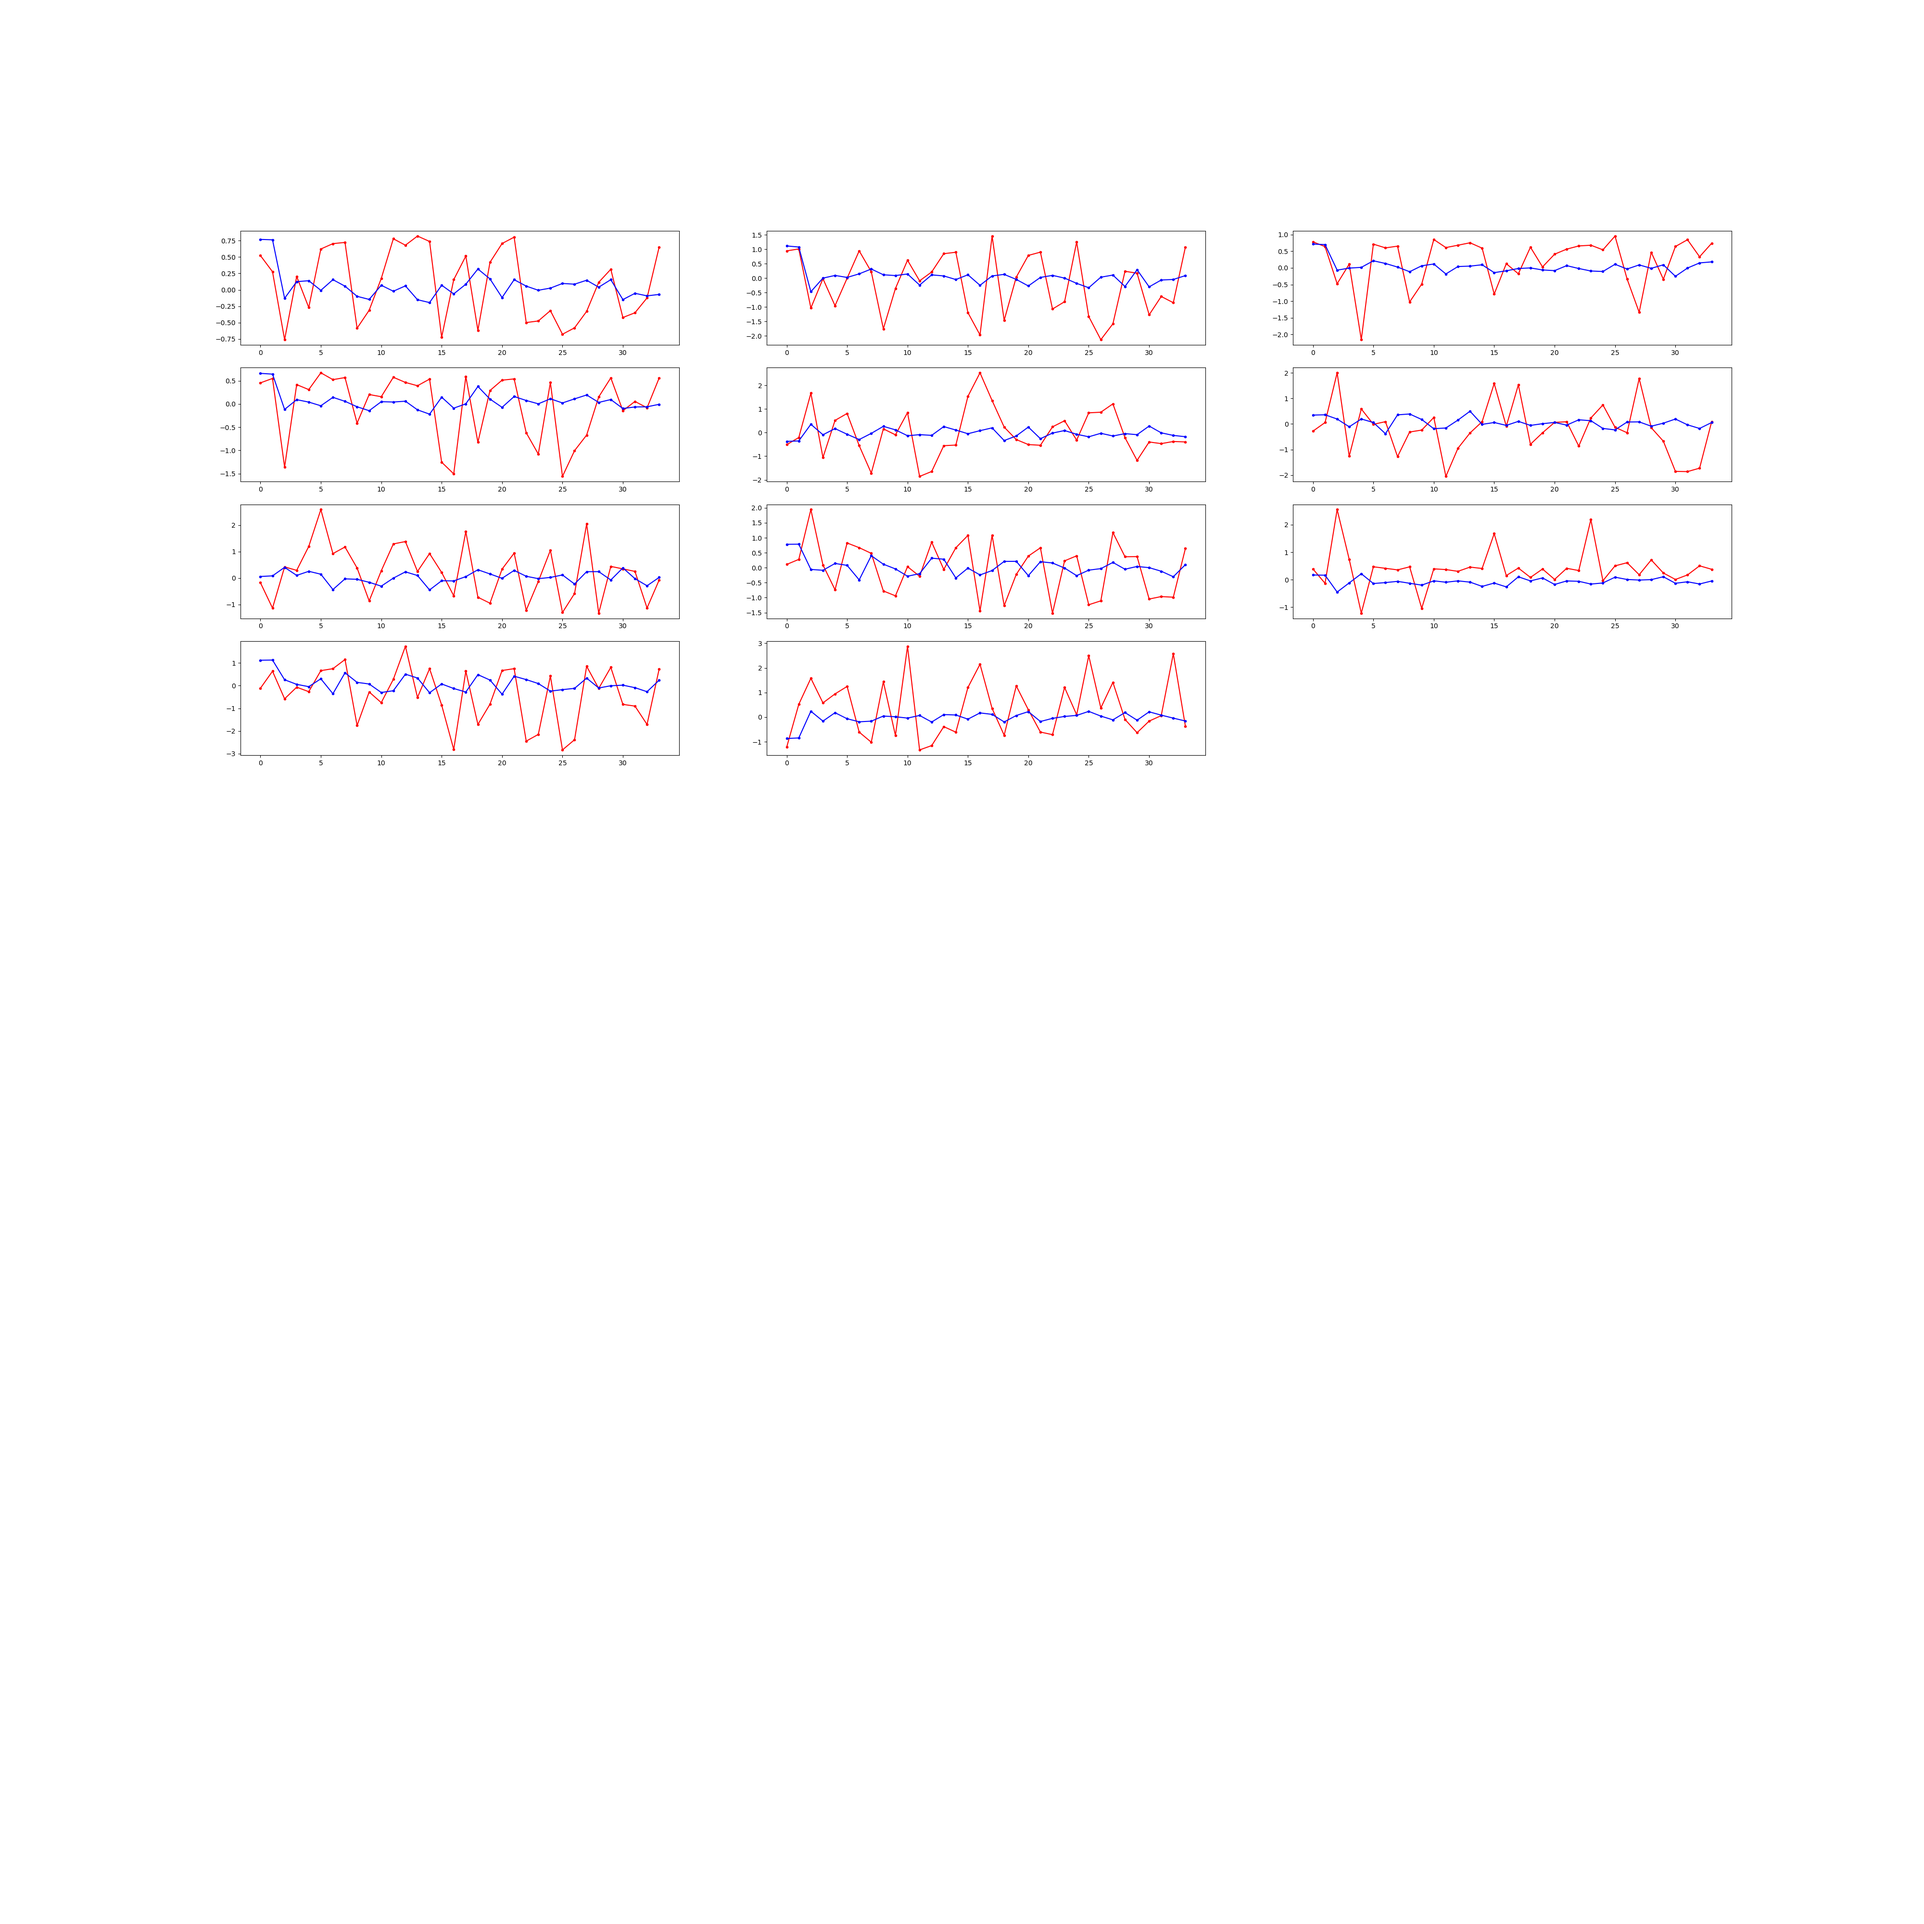
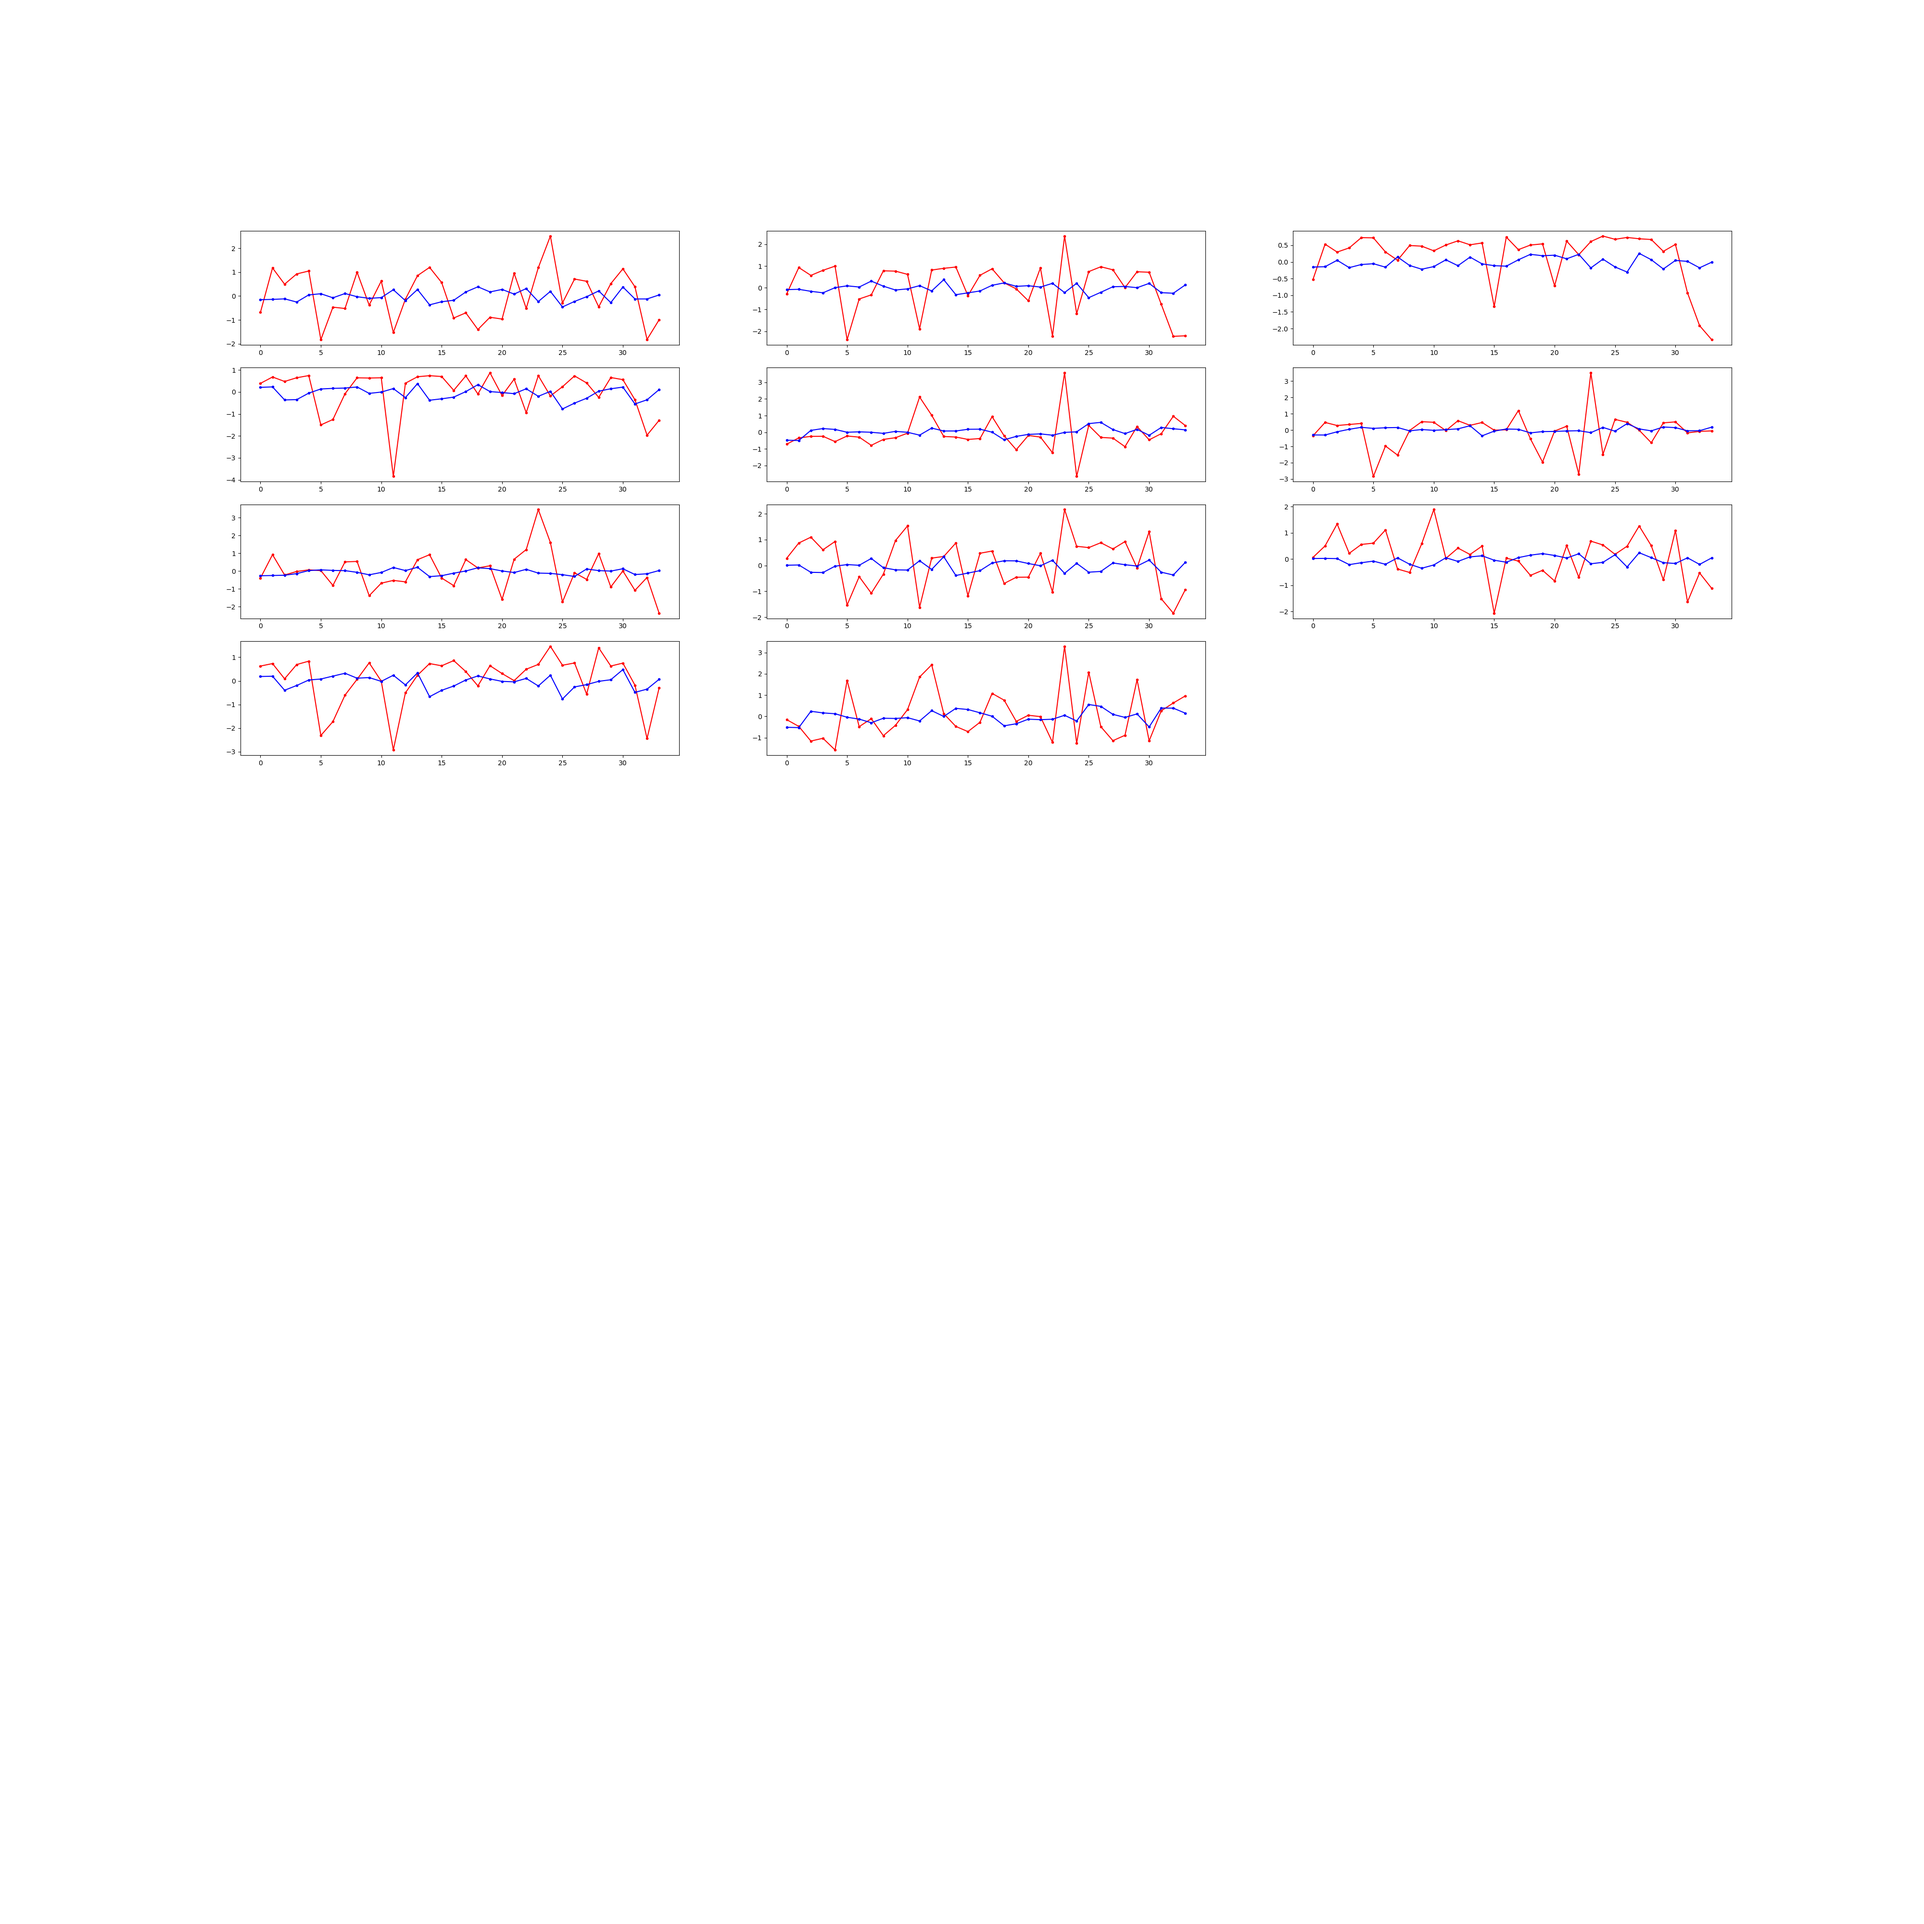
fixed target for training

diff --git a/lsde_model.py b/lsde_model.py
@@ -196,7 +196,7 @@ class LatentSDE(nn.Module):
         out = [g_net_i(y_i) for (g_net_i, y_i) in zip(self.g_nets, y)]
         return torch.cat(out, dim=1)
 
-    def forward(self, xs, actions, adjoint=True, method="reversible_heun"):
+    def forward(self, xs, actions,xs_target, adjoint=True, method="reversible_heun"):
         assert xs.shape[0] != 0, f'xs does not contain data, {xs.shape}'
         ts = torch.linspace(self.t0, self.t1, steps=xs.shape[0], device=device)
         ts = torch.permute(ts.repeat(xs.shape[1], 1).to(device), (1, 0))
@@ -247,7 +247,7 @@ class LatentSDE(nn.Module):
             else:
                 cum_log_ratio = torch.cat((cum_log_ratio, log_ratio), dim=0)
         xs_dist = Normal(loc=predicted_xs, scale=noise_std)
-        log_pxs = xs_dist.log_prob(xs).sum(dim=(0, 2)).mean(dim=0)
+        log_pxs = xs_dist.log_prob(xs_target).sum(dim=(0, 2)).mean(dim=0)
         qz0 = torch.distributions.Normal(loc=qz0_mean, scale=qz0_logstd.exp())
         pz0 = torch.distributions.Normal(loc=self.pz0_mean, scale=self.pz0_logstd.exp())
         logqp0 = torch.distributions.kl_divergence(qz0, pz0).sum(dim=1).mean(dim=0)
@@ -368,6 +368,7 @@ class LatentSDEModel:
         holdout_inputs = self.chunkify_into_steps(holdout_inputs, holdout_steps)
         holdout_actions_inputs = self.chunkify_into_steps(holdout_actions_inputs, holdout_steps)
         holdout_rewards = self.chunkify_into_steps(holdout_rewards, holdout_steps)
+        holdout_labels =  self.chunkify_into_steps(holdout_labels, holdout_steps)
         batch_size = 500
         print(f'training model, train_size : {train_inputs.shape}')
         # todo itertools.count()
@@ -379,6 +380,7 @@ class LatentSDEModel:
                 idx = train_idx[:, start_pos: start_pos + batch_size]
                 train_input = torch.from_numpy(train_inputs[idx]).float().to(device)
                 train_reward = torch.from_numpy(train_rewards[idx]).float().to(device)
+                train_label = torch.from_numpy(train_labels[idx]).float().to(device)
                 train_action_input = torch.from_numpy(train_actions_inputs[idx]).float().to(device)
                 losses = []
                 # batch the data in steps of {steps} variable size
@@ -387,9 +389,10 @@ class LatentSDEModel:
                 train_input = self.chunkify_into_steps(train_input, train_steps)
                 train_action_input = self.chunkify_into_steps(train_action_input, train_steps)
                 train_reward = self.chunkify_into_steps(train_reward, train_steps)
+                train_label = self.chunkify_into_steps(train_label, train_steps)
                 for i in range(train_input.shape[0]):
                     assert train_input[i].shape[1] > 1, f'steps for prediction is not > 1, {train_input[i].shape[1]}'
-                    log_pxs, logqp_path, predicted_xs = self.ensemble_model(train_input[i], train_action_input[i])
+                    log_pxs, logqp_path, predicted_xs = self.ensemble_model(train_input[i], train_action_input[i], train_label[i])
 
                     train_reward_inp = predicted_xs.detach()
                     pred_reward = self.reward_model(train_reward_inp)
@@ -409,14 +412,14 @@ class LatentSDEModel:
                 holdout_mse_losses = np.asarray([])
                 for i in range(train_input.shape[0]):
                     ho_log_pxs, ho_logqp_path, xs_pred = self.ensemble_model(holdout_inputs[i],
-                                                                             holdout_actions_inputs[i])
+                                                                             holdout_actions_inputs[i], holdout_labels[i])
                     holdout_mse_loss = self.ensemble_model.loss(ho_log_pxs, ho_logqp_path)
                     holdout_mse_loss = holdout_mse_loss.detach().cpu().numpy()
                     holdout_mse_losses = np.append(holdout_mse_losses, holdout_mse_loss)
                 holdout_reward_pred = self.reward_model(xs_pred)
                 self.plot_gym_results(holdout_rewards[train_input.shape[0] - 1], holdout_reward_pred, fname=f'results/plts/train_plt_rwd_{total_step}')
                 if epoch % (train_count - 1) == 0:
-                    self.plot_gym_results(holdout_inputs[train_input.shape[0] - 1], xs_pred,
+                    self.plot_gym_results(holdout_labels[holdout_labels.shape[0] - 1], xs_pred,
                                           fname=f'results/plts/train_plt_{total_step}')
 
                 sorted_loss_idx = np.argsort(holdout_mse_losses)

diff --git a/main_mbpo.py b/main_mbpo.py
@@ -129,11 +129,10 @@ def set_rollout_length(args, epoch_step):
 def train_predict_model(args, env_pool, predict_env, total_step):
     # Get all samples from environment
     state, action, reward, next_state, done = env_pool.sample(len(env_pool))
-    delta_state = next_state - state
+    delta_state_label = next_state - state
     inputs = state
-    labels = np.concatenate((np.reshape(reward, (reward.shape[0], -1)), delta_state), axis=-1)
 
-    predict_env.model.train(args, inputs, labels, action, reward,total_step, holdout_ratio=0.2)
+    predict_env.model.train(args, inputs, delta_state_label, action, reward,total_step, holdout_ratio=0.2)
 
 
 def resize_model_pool(args, rollout_length, model_pool):
